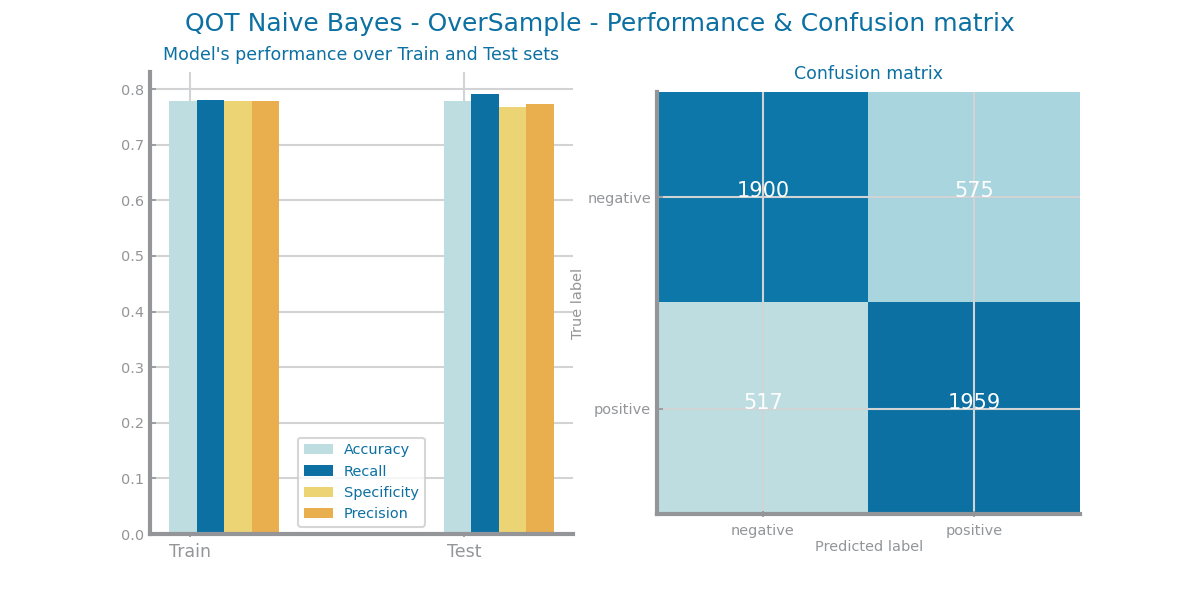
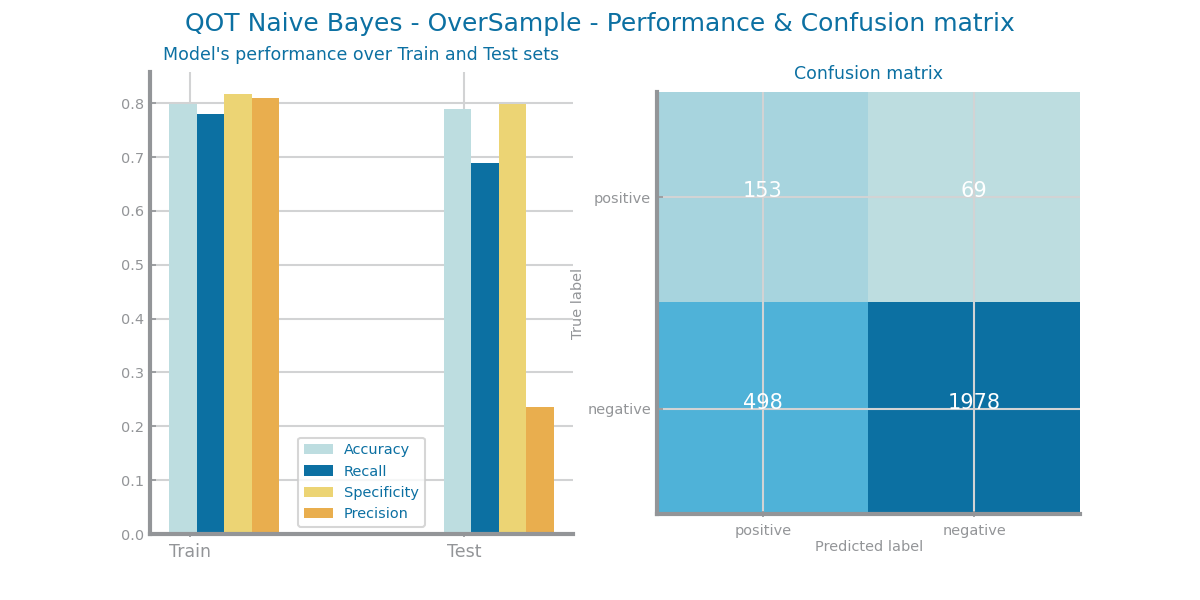
QOT Naive Bayes done? Maybe

diff --git a/Labs/QOT_knn-treated.py b/Labs/QOT_knn-treated.py
@@ -15,31 +15,40 @@ if not os.path.exists(graphsDir):
     os.makedirs(graphsDir)
 
 data: pd.DataFrame = pd.read_csv('../Dataset/qsar_oral_toxicity.csv', sep=';', header=None)
-datas = prepfunctions.prepare_dataset(data, 1024, False, False)
+train, test = train_test_split(data, train_size=0.7, stratify=data[1024].values)
+testDatas = {}
+datas = prepfunctions.prepare_dataset(train, 1024, False, False)
+for key in datas:
+    testDatas[key] = test.copy()
+
 featured_datas = prepfunctions.mask_feature_selection(datas, 1024, True, './Results/FeatureSelection/QOT Feature Selection - Features')
+featured_test_datas = prepfunctions.mask_feature_selection(testDatas, 1024, True, './Results/FeatureSelection/QOT Feature Selection - Features')
+
 best_accuracies = {}
 
 for key in datas:
     for do_feature_eng in [False, True]:
         if (do_feature_eng):
             data = featured_datas[key]
+            testData = featured_test_datas[key].copy()
             subDir = graphsDir + 'FeatureEng/' +  key + '/'
             if not os.path.exists(subDir):
                 os.makedirs(subDir)
         else:
             data = datas[key]
+            testData = test.copy()
             subDir = graphsDir + key + '/'
             if not os.path.exists(subDir):
                 os.makedirs(subDir)
 
-        y: np.ndarray = data.pop(1024).values 
-        X: np.ndarray = data.values
-        labels = pd.unique(y)
         now = datetime.now()
         current_time = now.strftime("%H:%M:%S")
         print(current_time, " : ", key)
 
-        trnX, tstX, trnY, tstY = train_test_split(X, y, train_size=0.7, stratify=y)
+        trnY: np.ndarray = data.pop(1024).values 
+        trnX: np.ndarray = data.values
+        tstY: np.ndarray = testData.pop(1024).values 
+        tstX: np.ndarray = testData.values
 
         nvalues = [1, 3, 5, 7, 9, 11, 13, 15, 17, 19, 21, 23, 25, 27, 29]
         dist = ['manhattan', 'euclidean', 'chebyshev']
@@ -100,7 +109,7 @@ for key in datas:
         clf.fit(trnX, trnY)
         prd_trn = clf.predict(trnX)
         prd_tst = clf.predict(tstX)
-        ds.plot_evaluation_results(pd.unique(y), trnY, prd_trn, tstY, prd_tst)
+        ds.plot_evaluation_results(["negative", "positive"], trnY, prd_trn, tstY, prd_tst)
         plt.suptitle('QOT KNN - ' + key + '- Performance & Confusion matrix - %d neighbors and %s'%(best[0], best[1]))
         plt.savefig(subDir + 'QOT KNN - ' + key + ' - Performance & Confusion matrix')
 

diff --git a/Labs/QOT_naive_bayes-treated.py b/Labs/QOT_naive_bayes-treated.py
@@ -19,29 +19,37 @@ print('-                                    -')
 print('--------------------------------------')
 
 data: pd.DataFrame = pd.read_csv('../Dataset/qsar_oral_toxicity.csv', sep=';', header=None)
-datas = prepfunctions.prepare_dataset(data, 1024, False, False)
+train, test = train_test_split(data, train_size=0.7, stratify=data[1024].values)
+testDatas = {}
+datas = prepfunctions.prepare_dataset(train, 1024, False, False)
+for key in datas:
+    testDatas[key] = test.copy()
+
 featured_datas = prepfunctions.mask_feature_selection(datas, 1024, True, './Results/FeatureSelection/QOT Feature Selection - Features')
+featured_test_datas = prepfunctions.mask_feature_selection(testDatas, 1024, True, './Results/FeatureSelection/QOT Feature Selection - Features')
+
 best_accuracies = {}
 
 for key in datas:
     for do_feature_eng in [False, True]:
         if (do_feature_eng):
             data = featured_datas[key]
+            testData = featured_test_datas[key].copy()
             subDir = graphsDir + 'FeatureEng/' +  key + '/'
             if not os.path.exists(subDir):
                 os.makedirs(subDir)
         else:
             data = datas[key]
+            testData = test.copy()
             subDir = graphsDir + key + '/'
             if not os.path.exists(subDir):
                 os.makedirs(subDir)
 
         print('QOT Naive Bayes - Performance & Confusion matrix')
-        y: np.ndarray = data.pop(1024).values
-        X: np.ndarray = data.values
-        labels = pd.unique(y)
-        
-        trnX, tstX, trnY, tstY = train_test_split(X, y, train_size=0.7, stratify=y)
+        trnY: np.ndarray = data.pop(1024).values 
+        trnX: np.ndarray = data.values
+        tstY: np.ndarray = testData.pop(1024).values 
+        tstX: np.ndarray = testData.values
 
         clf = GaussianNB()
         clf.fit(trnX, trnY)
@@ -49,7 +57,7 @@ for key in datas:
         prd_tst = clf.predict(tstX)
         train_accuracy = metrics.accuracy_score(trnY, prd_trn)
         test_accuracy = metrics.accuracy_score(tstY, prd_tst)
-        ds.plot_evaluation_results(pd.unique(y), trnY, prd_trn, tstY, prd_tst)
+        ds.plot_evaluation_results(["negative", "positive"], trnY, prd_trn, tstY, prd_tst)
         plt.suptitle('QOT Naive Bayes - ' + key + ' - Performance & Confusion matrix')
         plt.savefig(subDir + 'QOT Naive Bayes - ' + key + ' - Performance & Confusion matrix')
 
